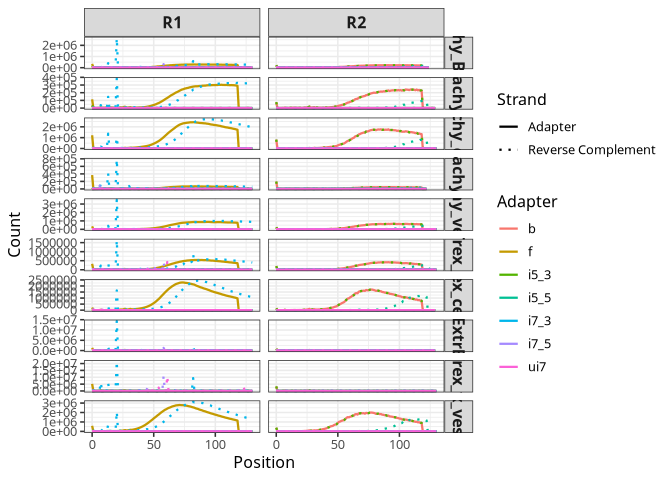
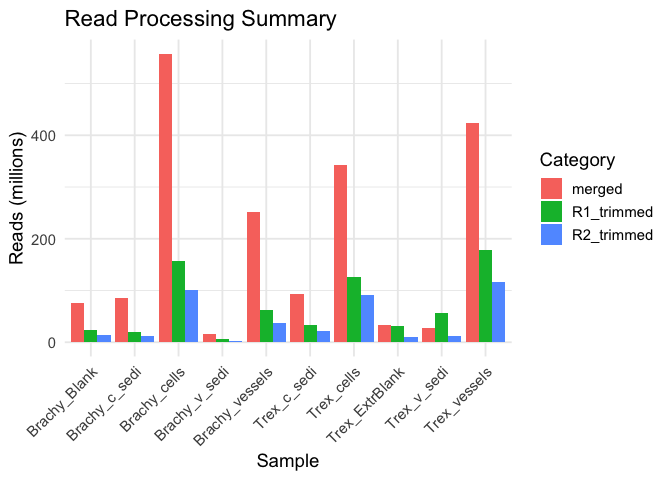
md-render

Changed region(s): [[0.0, 0.0, 0.9688, 1.0]]

diff --git a/results/2025-10-08-read-adapter-positions/README.md b/results/2025-10-08-read-adapter-positions/README.md
@@ -115,6 +115,7 @@
 </tbody>
 </table>
 
+![](README_files/figure-markdown_strict/unnamed-chunk-1-1.png)[PDF](summary.pdf)
 [tsv download](summary.tsv)
 
 ## Barcode and Adapter Structure
@@ -161,4 +162,3 @@
 ## Adapter Distribution
 
 ![](README_files/figure-markdown_strict/unnamed-chunk-2-1.png)[PDF](adapter.pdf)
-![](README_files/figure-markdown_strict/unnamed-chunk-2-2.png)[PDF](summary.pdf)
